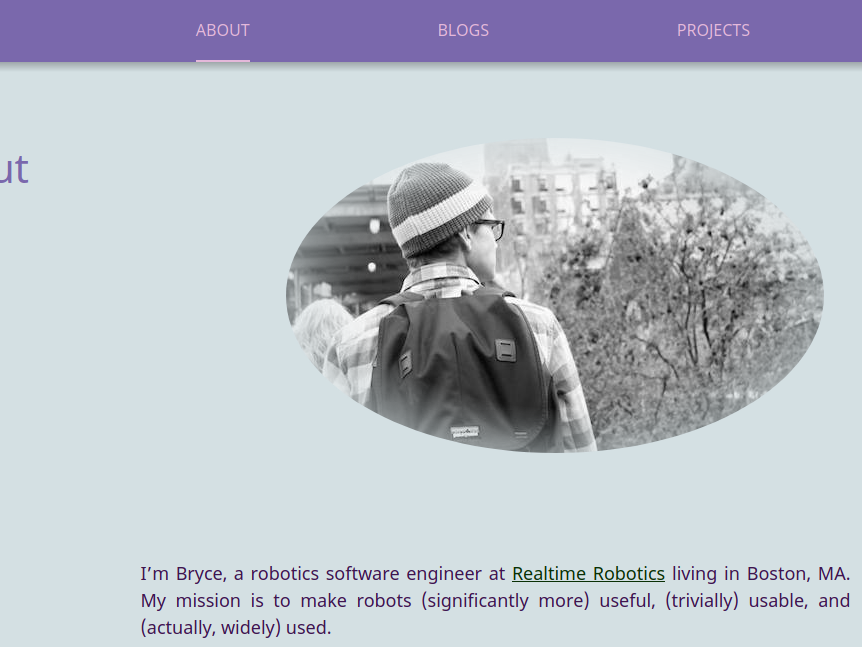
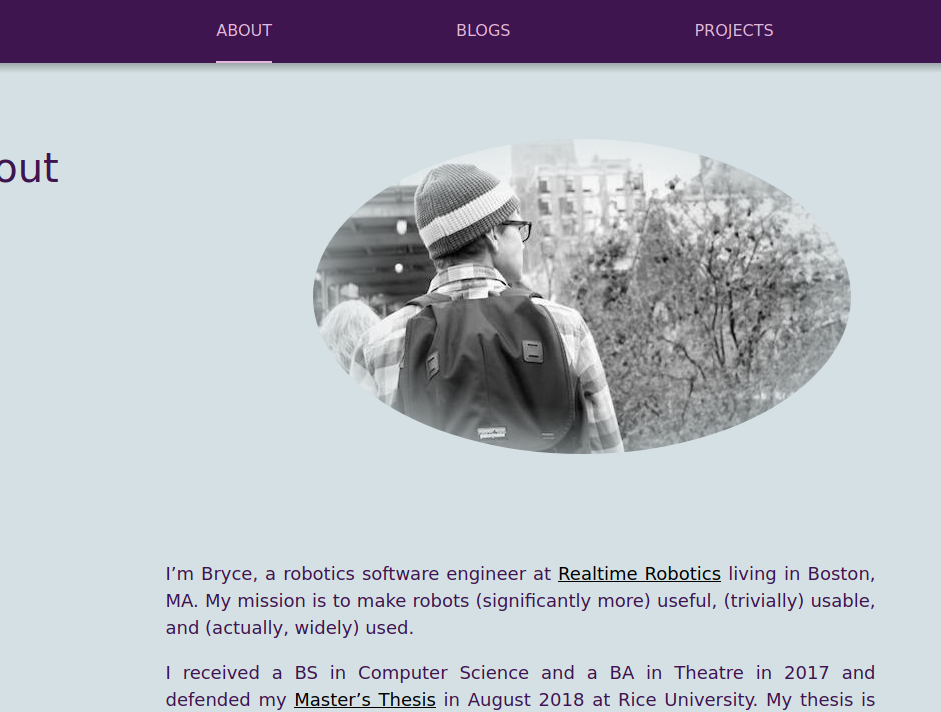
Accessibility changes and brush ups
Also added Chu-chu blender pics

diff --git a/_layouts/home.html b/_layouts/home.html
@@ -6,17 +6,18 @@ layout: default
   <header class="c-header c-article__header">
     <div class="u-container">
       <h1 class="c-header__title">Home</h1>
-      <div class="headerImgW" ><img class="headerImg" src="assets/headers/intense.jpg"></img></div>
+      <div class="headerImgW" ><img class="headerImg" src="assets/headers/intense.jpg" 
+                                    alt="A picture of Bryce, looking intense"></div>
       <p></p>
     </div>
   </header>
 
   <div class="c-article__main">
     {{ content }}
-    <section>
+    <p>
         I'm Bryce, software engineer at <a href="https://rtr.ai">Realtime Robotics</a> living in Boston, MA.
         My focus is in autonomous motion planning algorithms for robots and autonomous cars.
-    </section>
+    </p>
 
   </div>
 

diff --git a/_sass/helpers/_variables.scss b/_sass/helpers/_variables.scss
@@ -39,19 +39,19 @@ $c__eva_purple: #7a68ac;
 // Redesign
 $c__offwhite: #d4e0e3; 
 $c__blue_green: #468f32;
-$c__kathleen_green:#0a3005;  
+$c__blue_green_mod: #367026;
 $c__grape: #3e154f;
 $c__fuscia: #e4b8da;
 
 // Theme: change this as well as the theme in config.yml.
 $t-theme: $c__blue_green; 
-$t-headerTheme: $c__eva_purple; 
+$t-headerTheme: $c__grape;
 $t-bodyTheme: $c__offwhite; 
 
-$t-background: $c__offwhite;
-$t-nav-bg: $c__eva_purple;
-$t-titleText: $c__eva_purple;
-$t-bodyText: $c__grape; 
+$t-nav-bg: $c__grape; 
 $t-navText: $c__fuscia;
-$t-accent: $c__blue_green;
-$t-accent-off: $c__kathleen_green;
+$t-background: $c__offwhite;
+$t-titleText: $c__grape; 
+$t-bodyText: $c__grape; 
+$t-accent: $c__blue_green_mod;
+$t-accent-off: $c__black; 

diff --git a/_layouts/page.html b/_layouts/page.html
@@ -8,7 +8,8 @@ layout: default
       <!-- Note! Header images should try to be less than 315 height to
            limit the size of the header banner. -->
       {% if page.headerImg %} 
-        <div class="headerImgW"><img class="headerImg" src="{{ page.headerImg }}"></img></div>
+        <div class="headerImgW"><img class="headerImg" src="{{ page.headerImg }}"
+                                     alt="{{ page.headerImgAlt }}"></div>
         <p></p>
       {% endif %}
     </div>

diff --git a/_layouts/default.html b/_layouts/default.html
@@ -1,11 +1,11 @@
 <!DOCTYPE html>
-<html class="t-{{ site.themeColor }}">
+<html lang="en" class="t-{{ site.themeColor }}">
   {% include head.html %}
   <body>
     {% include navigation.html %}
-
+    <main>
     {{ content }}
-
+    </main>
     {% include footer.html %}
   </body>
 </html>

diff --git a/_sass/themes/_blue.scss b/_sass/themes/_blue.scss
@@ -13,6 +13,7 @@
   }
 
   .c-article__main {
+
     p, section, li, h2, h3, h1 {
       color: $t-bodyText; 
     }

diff --git a/_pages/projects.md b/_pages/projects.md
@@ -4,6 +4,7 @@ title: Projects
 front-page: true
 permalink: /projects/
 headerImg: /assets/headers/projects.png
+headerImgAlt: A collection of the different projects Bryce has made
 ---
 
 Here are some of my current and past personal projects, both software and nonsoftware: hope you can learn something from them or just enjoy them!
@@ -12,7 +13,7 @@ Here are some of my current and past personal projects, both software and nonsof
 
 ## Visioning Texts
 
-[Visioning Texts][visioning_texts_page] is a data visualization tool for your conversations. It runs locally in your browser, giving you power over your information. It works with Signal, WhatsApp, and Facebook Messenger. Instructions on how to extract your data is [here](/visioning_texts/setup_instructions.html), and if you're too busy to try it yourself, you can see an example image of what it looks like [here](/assets/visioning_texts_full.png).
+[Visioning Texts][visioning_texts_page] is a data visualization tool for your conversations. It runs locally in your browser, giving you power over your information. It works with Signal, WhatsApp, and Facebook Messenger. You can [extract your own data](/visioning_texts/setup_instructions.html), and if you're too busy to try it yourself, you can [view an example image](/assets/visioning_texts_full.png).
 
 ![Visioning Texts Screenshot](/assets/visioning_texts.png)
 
@@ -31,8 +32,7 @@ co-designed some of the levels with [Mei Tan](https://www.linkedin.com/in/meiflw
 [Forest][forest-repo] is a procedurally-generated VR 'game' that a [friend](https://github.com/pjh4) and
 I made for the Oculus Rift at HackRice 6 ([original version](https://github.com/BryceStevenWilley/oculus-hackrice16)).  The working title was "No Man's Forest",
 and was just a chance for us to make a VR game, It ended up being a blast.
-However, since I don't own a Rift, I had to port the game to Mac, which you can find
-[here][forest-repo]! It also builds on Linux (Ubuntu 16.04, feel free to open an issue if it doesn't build on your machine).
+However, since I don't own a Rift, I had to [port the game to Mac][forest-repo]! It also builds on Linux (Ubuntu 16.04, feel free to open an issue if it doesn't build on your machine).
 
 <div class="gallery-wrap">
   {% for image in site.static_files %}
@@ -40,9 +40,8 @@ However, since I don't own a Rift, I had to port the game to Mac, which you can 
         <div class="pictureBox">
             <div class="innerBox">
               <a href="{{ site.baseurl }}{{ image.path }}">
-                <img src="{{ site.baseurl }}{{ image.path }}">
+                <img src="{{ site.baseurl }}{{ image.path }}" alt="A picture of the Forest game">
               </a>
-                <!--div class="titleBox">Image 1</div-->
             </div>
         </div>
      {% endif %}
@@ -86,7 +85,7 @@ In my free time, I play around with the 3d animation software, Blender. When I m
 ## Photography
 
 I used to be a volunteer photographer at [BARC](https://www.houstontx.gov/barc/), the City of Houston animal shelter, and I gathered a ton of beautiful pictures of some gorgeous pups.
-Some of my favorites are below, and the entire collection can be found [here](/image-gallery#dog-pictures).
+Some of my favorites are below, and you can also view the [entire collection](/image-gallery#dog-pictures).
 
 <div class="gallery-wrap">
   {% for image in site.static_files %}
@@ -94,7 +93,7 @@ Some of my favorites are below, and the entire collection can be found [here](/i
       <div class="pictureBox">
         <div class="innerBox">
           <a href="{{ site.baseurl }}{{ image.path }}">
-            <img src="{{ site.baseurl }}{{ image.path }}">
+            <img src="{{ site.baseurl }}{{ image.path }}" alt="some dogs that were in BARC">
           </a>
         </div>
       </div>

diff --git a/_pages/qq-image-gallery.md b/_pages/qq-image-gallery.md
@@ -4,6 +4,7 @@ title: Image Gallery
 front-page: true
 permalink: /image-gallery
 headerImg: /assets/headers/Melody-header.jpg
+headerImgAlt: A picture of Melody, a dog from the BARC animal shelter in Houston
 ---
 
 Click on the images to see them in full resolution.
@@ -18,7 +19,7 @@ Click on the images to see them in full resolution.
       <div class="pictureBox">
         <div class="innerBox">
             <a href="{{site.baseurl}}/assets/full_res/blender/{{image.basename}}.png">
-              <img src="{{ site.baseurl }}{{ image.path }}">
+              <img src="{{ site.baseurl }}{{ image.path }}" alt="Some art made with Blender">
             </a>
         </div>
       </div>
@@ -29,8 +30,8 @@ Click on the images to see them in full resolution.
 <div class="gallery-wrap">
   {% for image in site.static_files %}
     {% if image.path contains 'blender' and image.extname == '.mp4' %}
-        <video muted autoplay loop width="720" height="480">
-            <source src="{{ site.baseurl }}{{ image.path }}" type="video/mp4"/>
+        <video muted loop width="720" height="480">
+            <source src="{{ site.baseurl }}{{ image.path }}" type="video/mp4" alt="a video made with Blender"/>
         </video>
     {% endif %}
   {% endfor %}
@@ -50,7 +51,7 @@ A gallery of dogs that I've photographed from [BARC](http://www.houstontx.gov/ba
       <div class="pictureBox">
         <div class="innerBox">
             <a href="{{site.baseurl}}{{image.path }}">
-              <img src="{{ site.baseurl }}{{ image.path }}">
+              <img src="{{ site.baseurl }}{{ image.path }}" alt="a dog, once at BARC">
             </a>
         </div>
       </div>

diff --git a/_pages/1-about.md b/_pages/1-about.md
@@ -4,6 +4,7 @@ title: About
 front-page: true
 permalink: /about/
 headerImg: /assets/headers/cool_in_NY.jpg
+headerImgAlt: A picture of Bryce, exploring NYC
 ---
 
 I'm Bryce, a robotics software engineer at [Realtime Robotics](https://rtr.ai) living in Boston, MA.
@@ -14,8 +15,7 @@ My thesis is based on work in the [Kavraki Lab](http://www.kavrakilab.org/)
 with [Lydia Kavraki](https://www.cs.rice.edu/~kavraki/) and [Mark Moll](https://www.cs.rice.edu/~mmoll/)
 on autonomous robotic and vehicle motion.
 
-I've contributed to [MoveIt](https://moveit.ros.org/about/), and I also have a side hobby of making video games: take a
-look [here](/projects) to see more.
+I've contributed to [MoveIt](https://moveit.ros.org/about/), and I also have a side hobby of making [video games](/projects).
 
 I run, read, bike, and advocate with [Dotbike](http://dotbike.org), the Dorchester Biking Club (I setup and designed their website).
 

diff --git a/_posts/2020-09-27-choosing_colors.md b/_posts/2020-09-27-choosing_colors.md
@@ -75,7 +75,7 @@ But the direct sample from the image was <span style="color:#a5884f;">⬤</span>
 Not a ton of the screen shots worked when trying to extract a usable pallet, so I had to mix and match a bit. I combined some of the colors from Blade Runner: 2049 and Evangelion to get the final colors you see here:
 
 * A blue grey <span style="color:#d4e0e3;">⬤</span> background
-* A green <span style="color:#468f32;">⬤</span> and variant <span style="color:#0a3005;">⬤</span> for links (before and after visiting)
+* A green <span style="color:#367026;">⬤</span> and variant <span style="color:#000000;">⬤</span> for links (before and after visiting)
 * A dark purple <span style="color:#3e154f;">⬤</span> for the nav bar and body text
 * A lighter fuscia <span style="color:#e4b8da;">⬤</span> for nav bar text
 

diff --git a/_pages/2-academic.md b/_pages/2-academic.md
@@ -4,6 +4,7 @@ title: Academic Work
 front-page: false
 permalink: /academic/
 headerImg: /assets/headers/sampling_optimization.png
+headerImgAlt: A Barrett WAM robot, with a visualization of multiple motion plans 
 ---
 
 ## Master's Thesis
